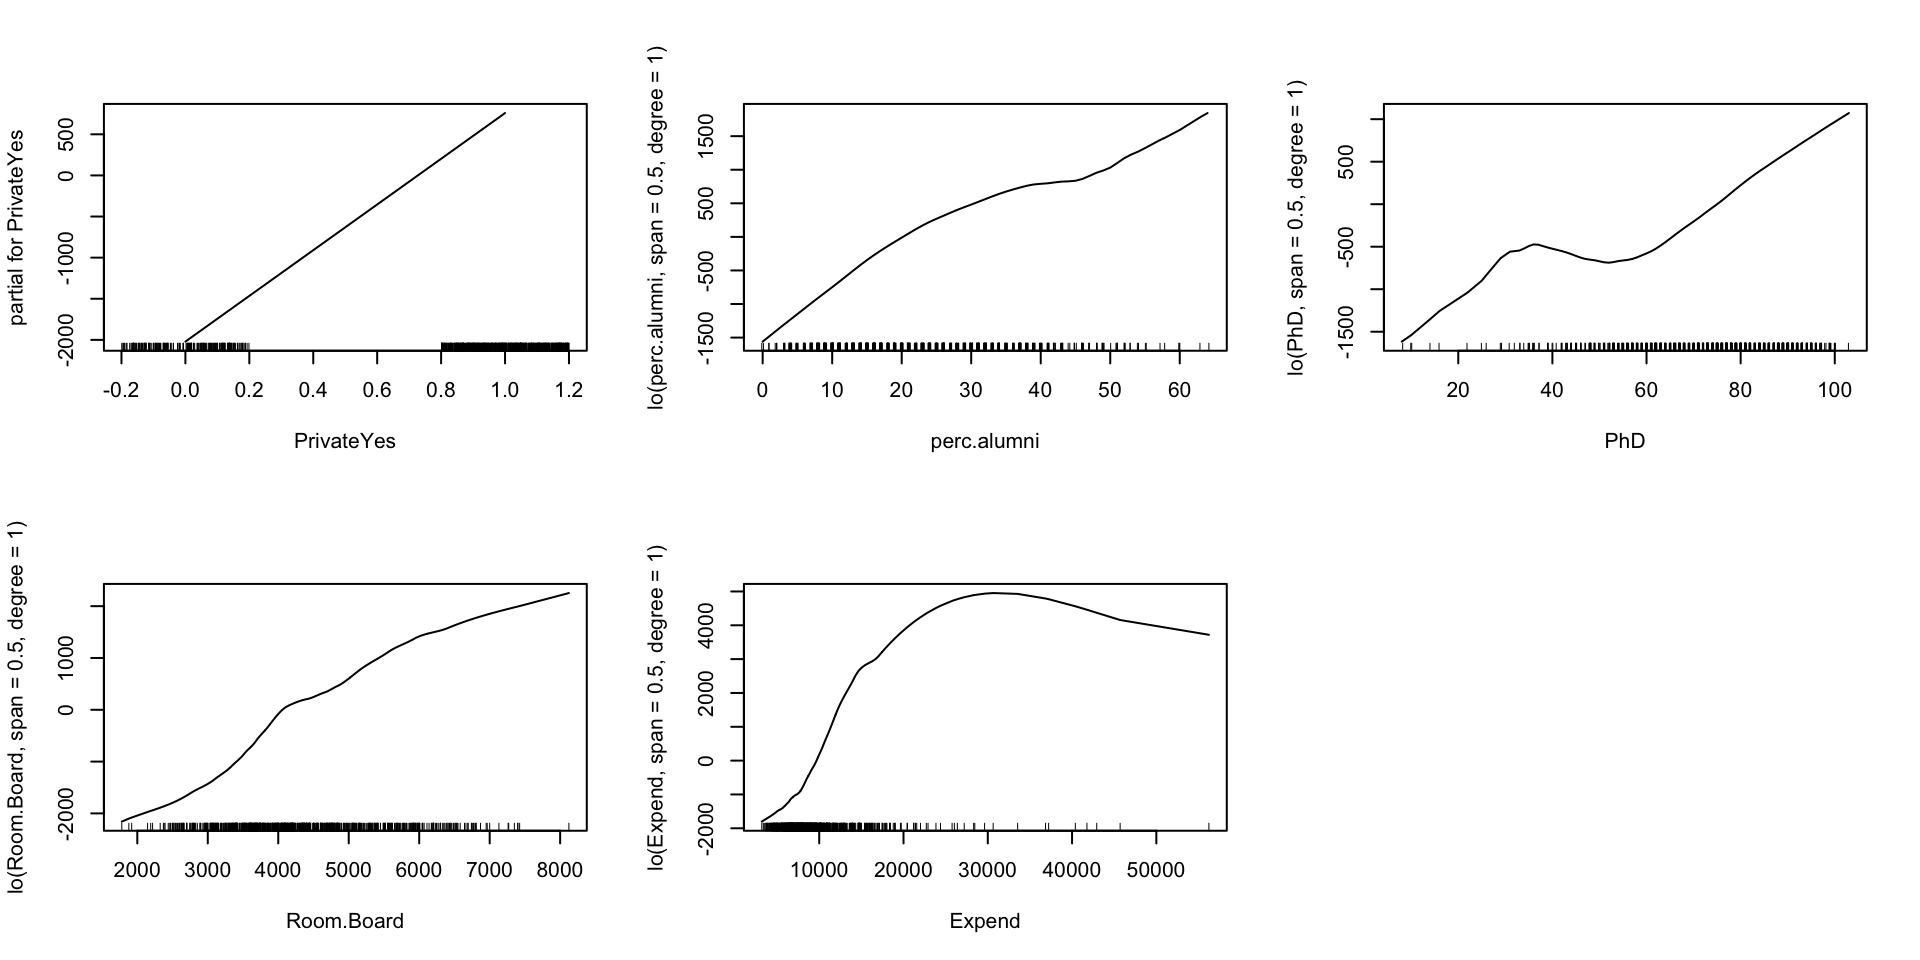
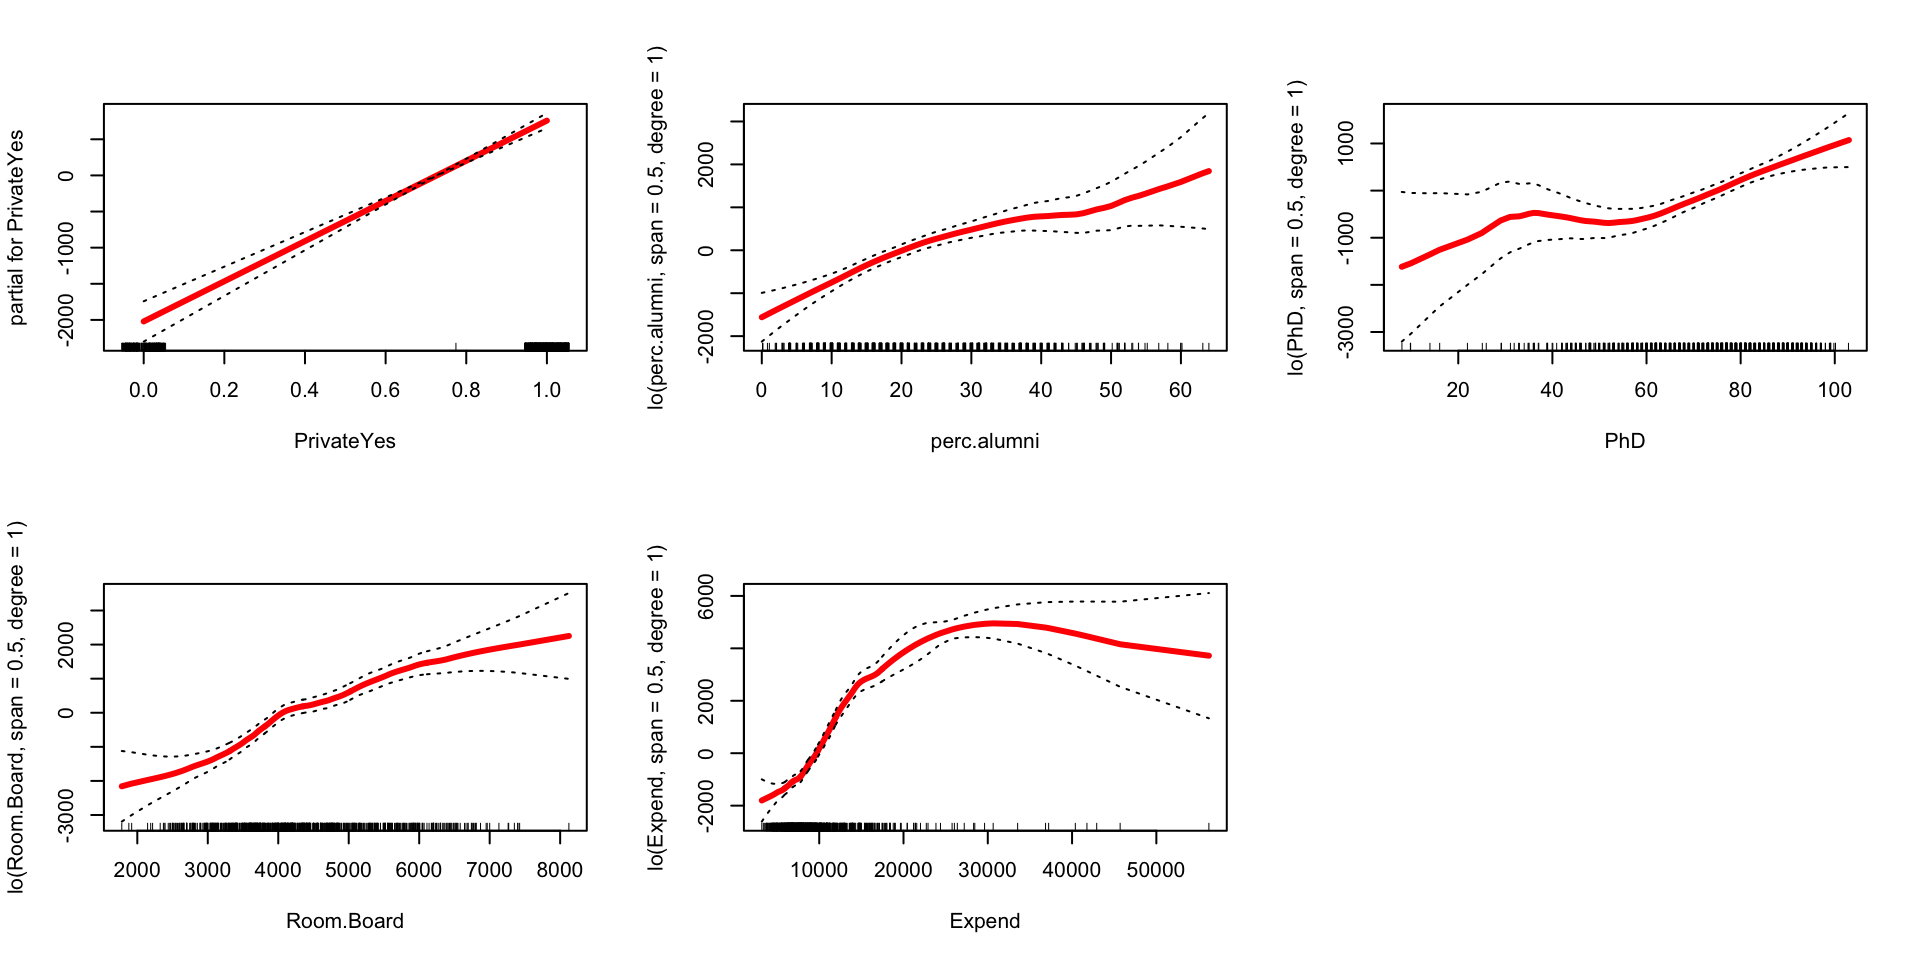
Update GAM exercises

diff --git a/docs/local-regression-and-gams.html b/docs/local-regression-and-gams.html
@@ -254,14 +254,23 @@ gam_mod &lt;-<span class="st"> </span><span class="kw">train</span>(
     <span class="dt">metric =</span> <span class="st">&quot;RMSE&quot;</span>,
     <span class="dt">na.action =</span> na.omit
 )</code></pre></div>
-<p>You can plot each LOESS component by calling the <code>plot()</code> function on the <code>finalModel</code> component <code>gam_mod</code>. (This is the model with the best set of tuning parameters.) This will produce a sequence of 5 plots, each illustrating a different smooth <span class="math inline">\(\hat{f}_i(x_i)\)</span> that describes how out-of-state tuition changes with that predictor, <em>holding constant</em> the other predictors.<br />
+<p>You can plot each LOESS component by calling the <code>plot()</code> function on the <code>finalModel</code> component <code>gam_mod</code>. (This is the model with the best set of tuning parameters.) This will produce a sequence of 5 plots, each illustrating a different smooth <span class="math inline">\(\hat{f}_i(x_i)\)</span> that describes how out-of-state tuition changes with that predictor, <em>holding constant</em> the other predictors. The dotted lines show 2 standard errors.<br />
 That is, pick any 2 points on a plot. The difference in <span class="math inline">\(y\)</span> values gives the change in out-of-state tuition associated with the change in <span class="math inline">\(x\)</span> values, holding constant the other predictors.</p>
 <div class="sourceCode"><pre class="sourceCode r"><code class="sourceCode r"><span class="kw">par</span>(<span class="dt">mfrow =</span> <span class="kw">c</span>(<span class="dv">2</span>,<span class="dv">3</span>)) <span class="co"># Set up a plot grid with 2 rows and 3 cols</span>
-<span class="kw">plot</span>(gam_mod<span class="op">$</span>finalModel)</code></pre></div>
+<span class="kw">plot</span>(gam_mod<span class="op">$</span>finalModel, <span class="dt">se =</span> <span class="ot">TRUE</span>, <span class="dt">col =</span> <span class="st">&quot;red&quot;</span>, <span class="dt">lwd =</span> <span class="dv">3</span>) <span class="co"># lwd = line width</span></code></pre></div>
 <p><img src="math253_manual_files/figure-html/unnamed-chunk-84-1.png" width="960" style="display: block; margin: auto;" /></p>
-<p>Pick 1 or 2 of these plots and interpret your findings in context. Anything surprising or interesting?</p></li>
+<ol style="list-style-type: lower-alpha">
+<li>Pick 1 or 2 of these plots and interpret your findings in context. Anything surprising or interesting?</li>
+<li><p>If instead of LOESS representations for the 4 quantitative variables, we wanted spline representations, we can fit a least squares model with spline terms. We can then view the spline components using <code>plot.Gam()</code> from the <code>GAM</code> package.</p>
+<div class="sourceCode"><pre class="sourceCode r"><code class="sourceCode r"><span class="kw">library</span>(gam) <span class="co"># Load for plot.Gam()</span>
+spline_mod &lt;-<span class="st"> </span><span class="kw">lm</span>(Outstate <span class="op">~</span><span class="st"> </span>Private <span class="op">+</span><span class="st"> </span><span class="kw">ns</span>(Room.Board, <span class="dt">df=</span><span class="dv">4</span>) <span class="op">+</span><span class="st"> </span><span class="kw">ns</span>(PhD, <span class="dt">df=</span><span class="dv">4</span>) <span class="op">+</span><span class="st"> </span><span class="kw">ns</span>(perc.alumni, <span class="dt">df=</span><span class="dv">4</span>) <span class="op">+</span><span class="st"> </span><span class="kw">ns</span>(Expend, <span class="dt">df=</span><span class="dv">4</span>), <span class="dt">data =</span> College)
+<span class="kw">par</span>(<span class="dt">mfrow =</span> <span class="kw">c</span>(<span class="dv">2</span>,<span class="dv">3</span>))
+<span class="kw">plot.Gam</span>(spline_mod, <span class="dt">se =</span> <span class="ot">TRUE</span>, <span class="dt">col =</span> <span class="st">&quot;red&quot;</span>, <span class="dt">lwd =</span> <span class="dv">3</span>)</code></pre></div>
+<p><img src="math253_manual_files/figure-html/unnamed-chunk-85-1.png" width="960" style="display: block; margin: auto;" /></p>
+<p>How do the spline and LOESS components compare?</p></li>
+</ol></li>
 </ol>
-<p><br> <br> <br></p>
+<p><br> <br> <br> <br></p>
 <p><strong>Note:</strong> If you want to read about how GAMs are fit, you can read about the <strong>backfitting algorithm</strong> in ISLR Section 7.7. When we want LOESS representations for the individual predictor functions, backfitting must be performed. Backfitting can sometimes run into computational issues but is fine most of the time. Least squares is more stable overall, and we can use least squares if we want spline representations of the individual predictor functions. The decision making point is whether we want spline or LOESS representations.</p>
 
 </div>
